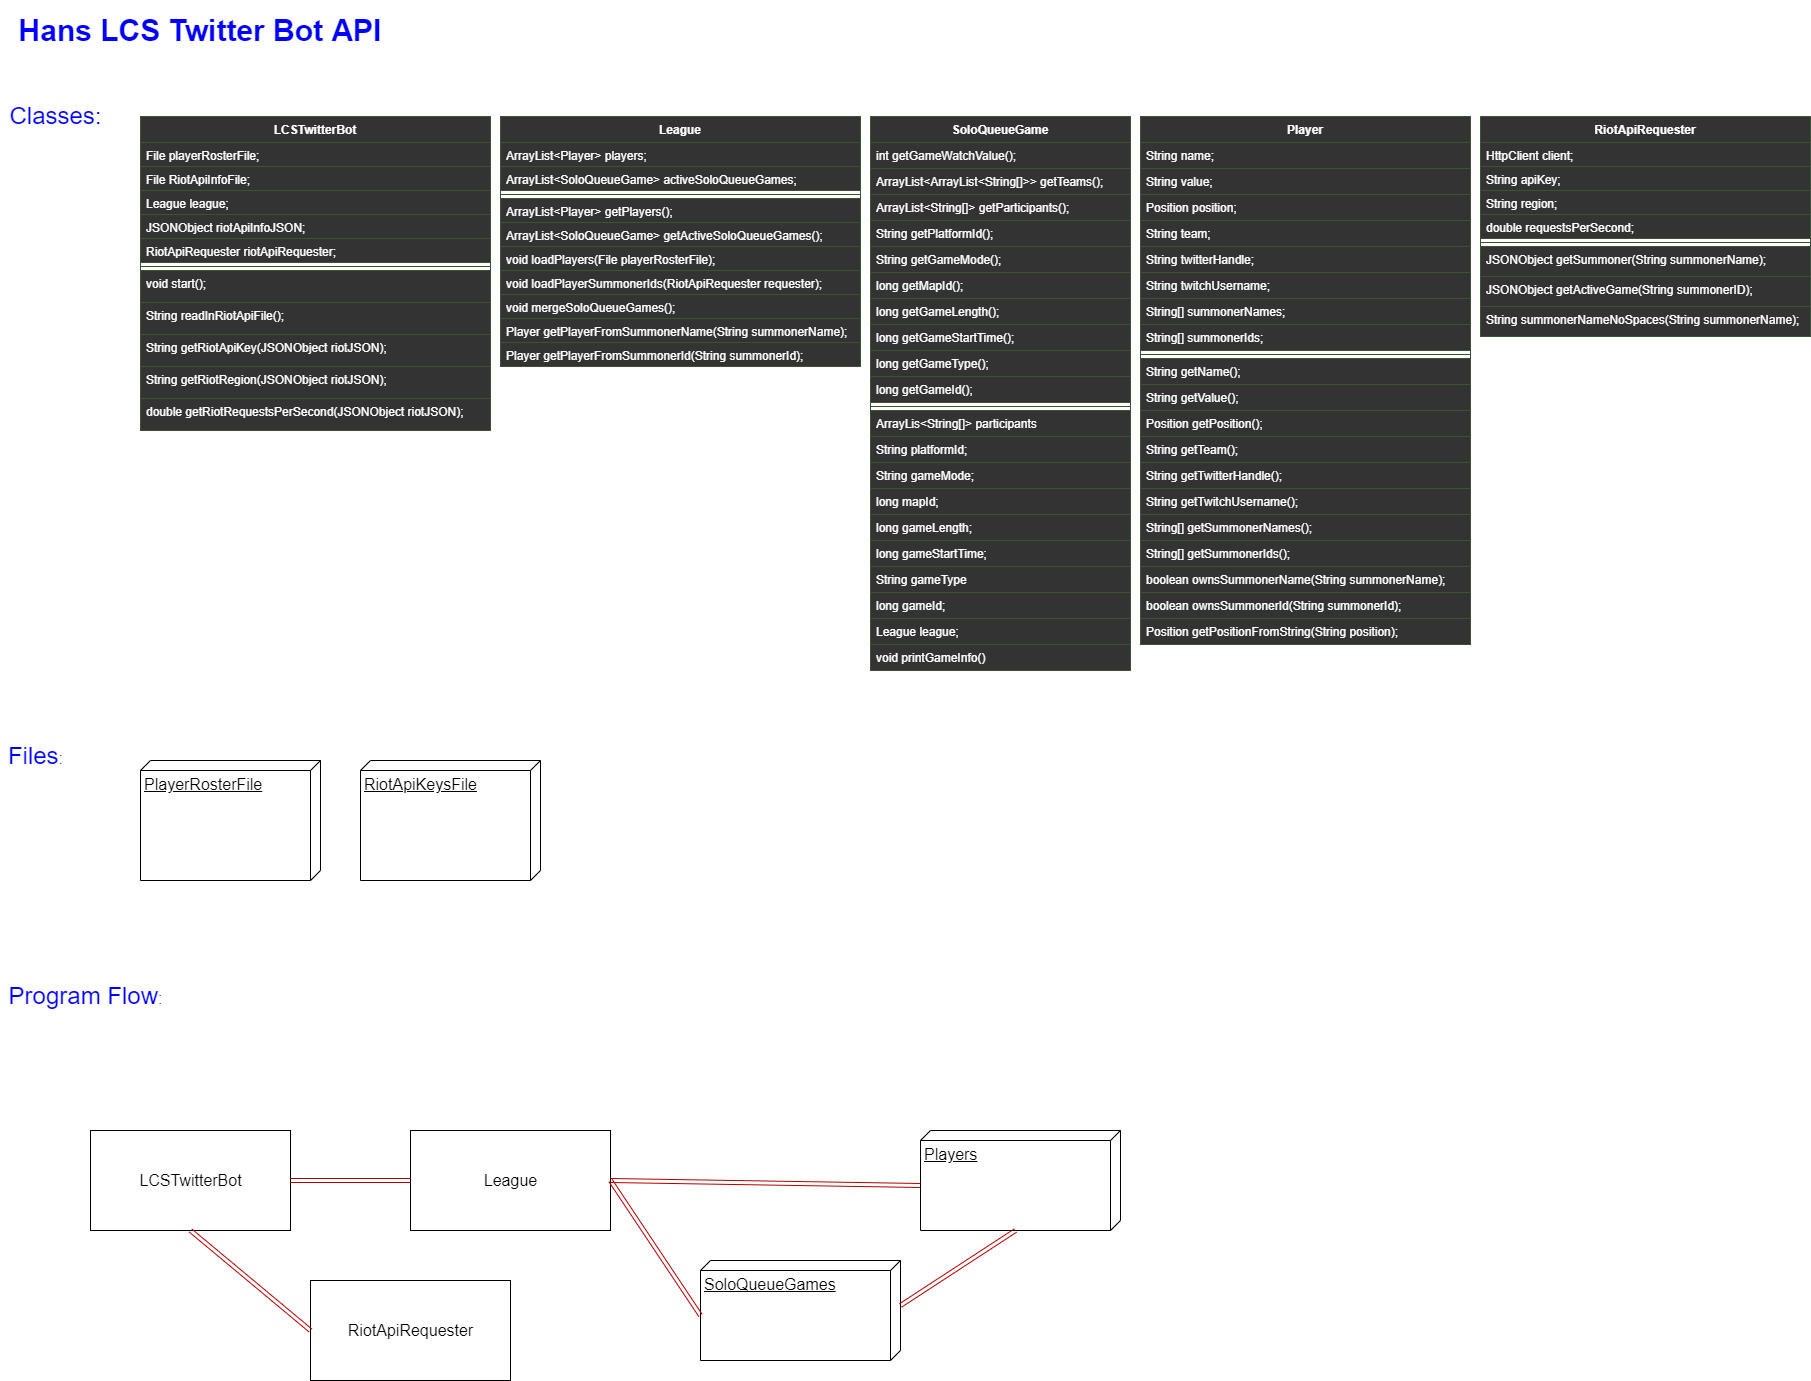
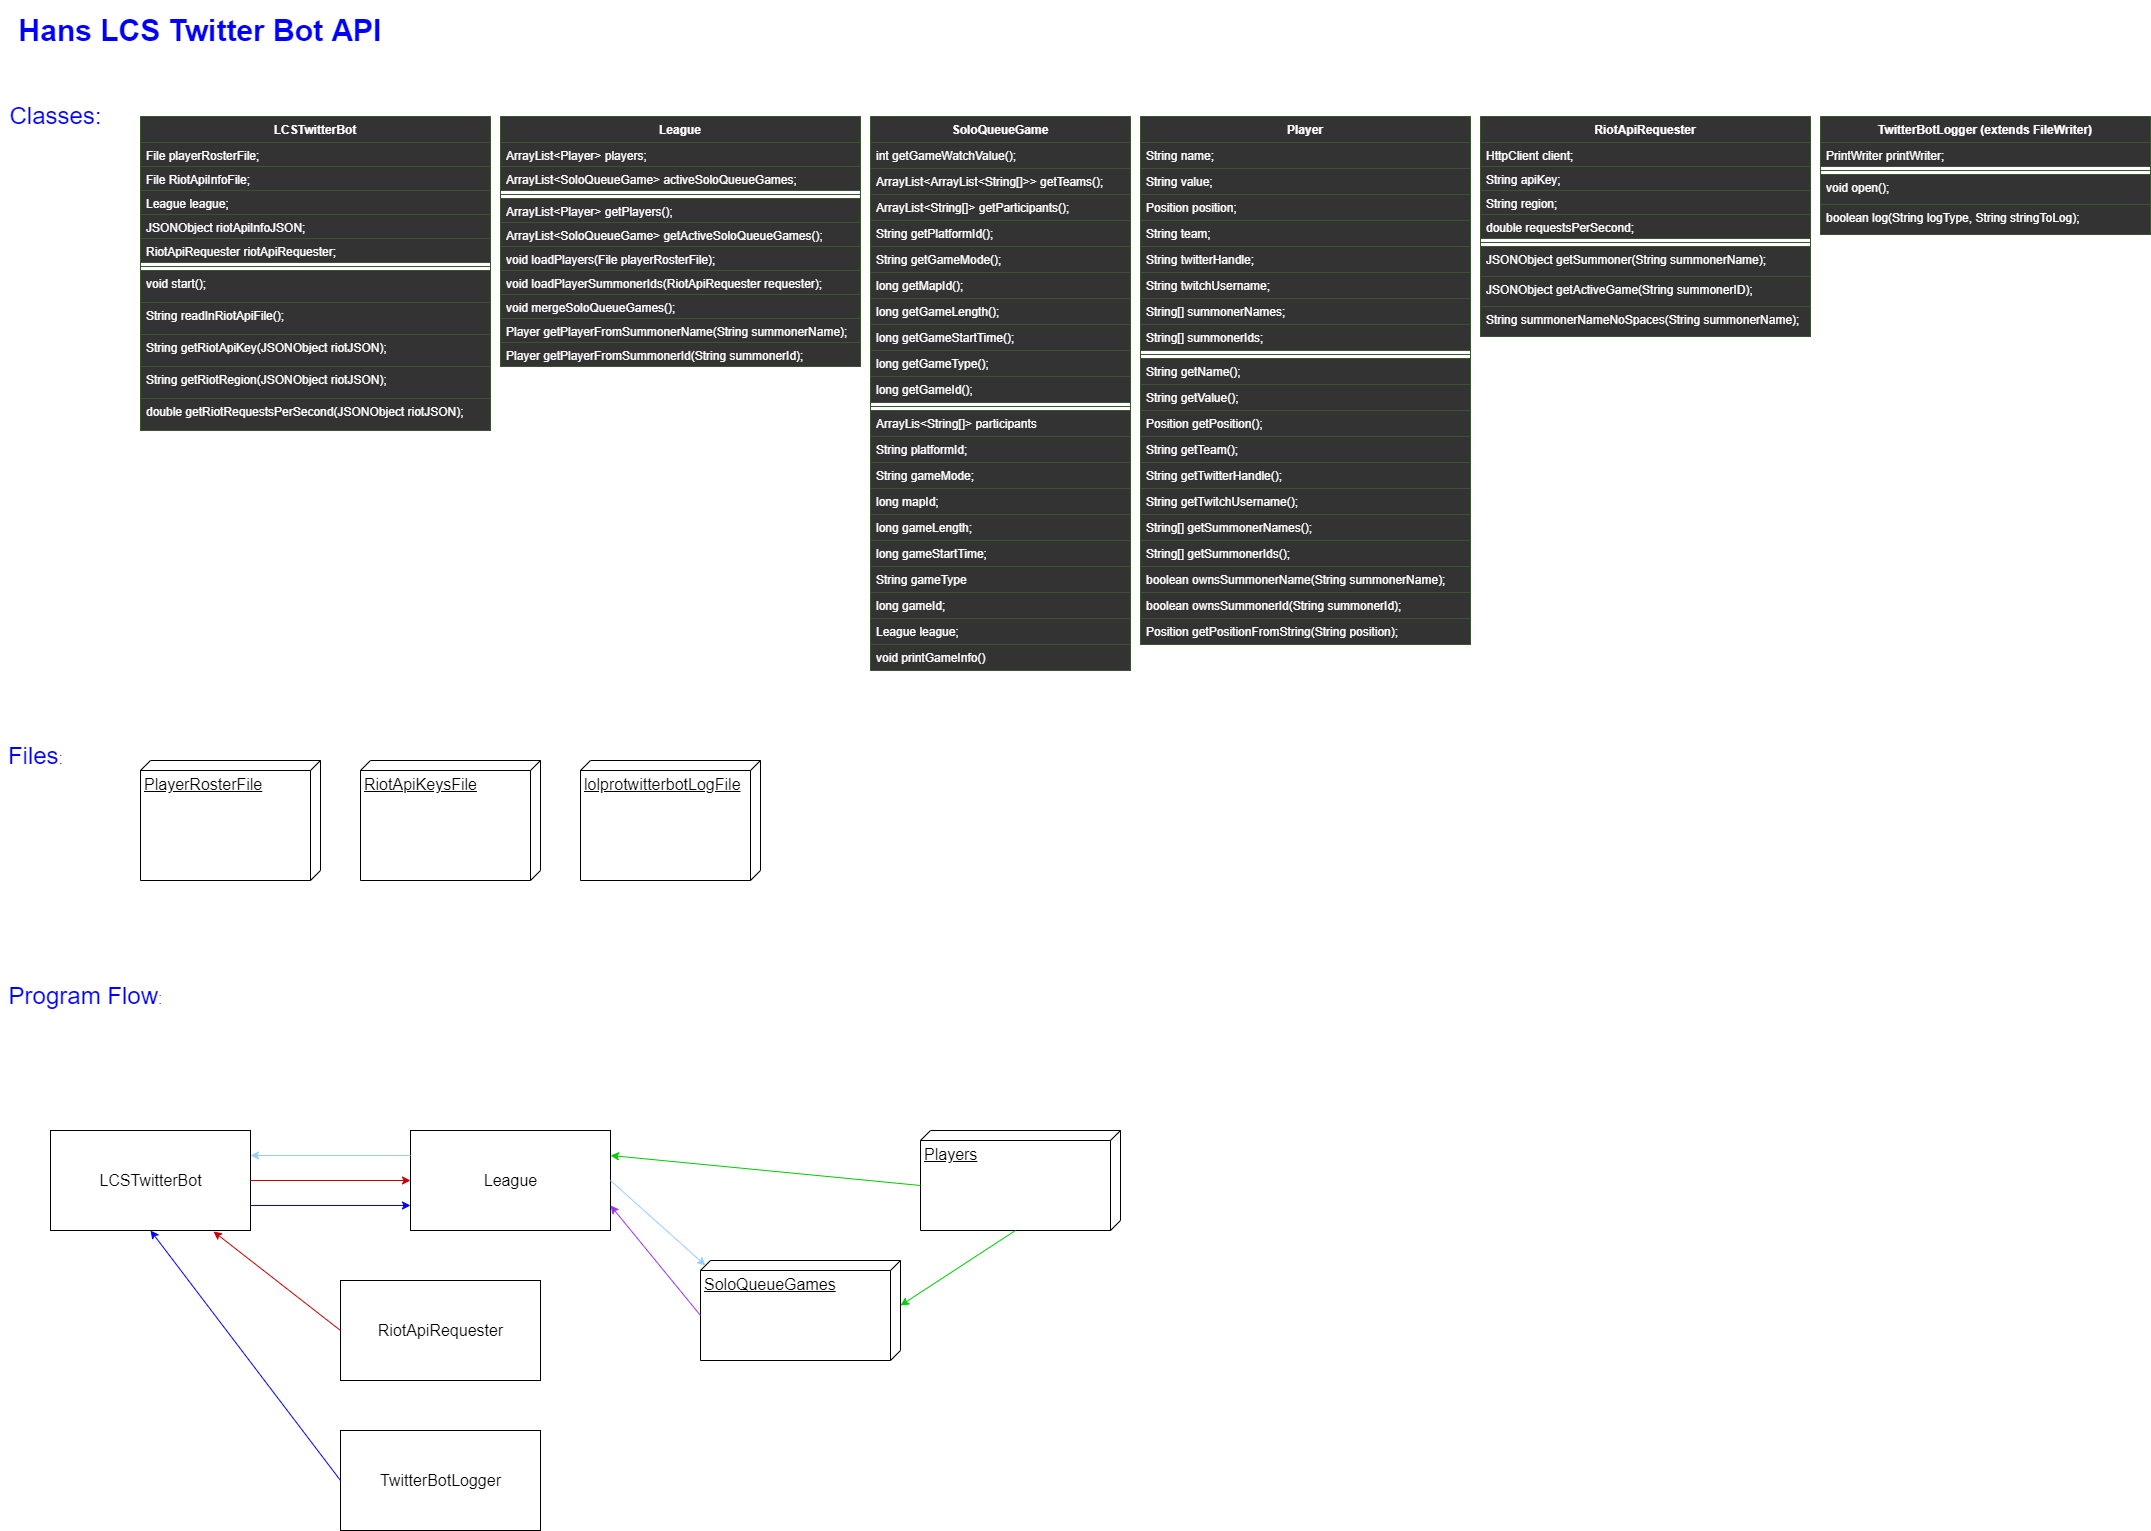
Added logging feature to keep track of what the bot is doing

diff --git a/src/com/hansvg/lcstwitterbot/RiotApiRequester.java b/src/com/hansvg/lcstwitterbot/RiotApiRequester.java
@@ -16,12 +16,15 @@ class RiotApiRequester {
     private String region;
     private double requestsASecond;
     private HttpClient httpClient;
+    private TwitterBotLogger twitterBotLogger;
 
-    protected RiotApiRequester(String ApiKey, String region, double requestsASecond) {
+    protected RiotApiRequester(String ApiKey, String region, double requestsASecond,
+            TwitterBotLogger twitterBotLogger) {
         this.ApiKey = ApiKey;
         this.region = region;
         this.requestsASecond = requestsASecond;
         httpClient = HttpClient.newHttpClient();
+        this.twitterBotLogger = twitterBotLogger;
     }
 
     protected JSONObject getSummoner(String summonerName) {
@@ -41,38 +44,49 @@ class RiotApiRequester {
                 return responseJSON;
             } else {
                 if (response.statusCode() == 400) {
-                    // System.out.println("400: Bad Request from: getSummonerID(" + summonerName +
-                    // ")");
+                    // LOG
+                    this.twitterBotLogger.log("400: BAD REQUEST",
+                            "From Riot Games API for requesting Summoner Name: " + summonerName);
                 } else if (response.statusCode() == 401) {
-                    // System.out.println("401: Unautherized from: getSummonerID(" + summonerName +
-                    // ")");
+                    // LOG
+                    this.twitterBotLogger.log("401: UNAUTHERIZED",
+                            "From Riot Games API for requesting Summoner Name: " + summonerName);
                 } else if (response.statusCode() == 403) {
-                    // System.out.println("403: Forbidden from: getSummonerID(" + summonerName +
-                    // ")");
+                    // LOG
+                    this.twitterBotLogger.log("403: FORBIDDEN",
+                            "From Riot Games API for requesting Summoner Name: " + summonerName);
                 } else if (response.statusCode() == 404) {
-                    // System.out.println("404: Data Not Found from: getSummonerID(" + summonerName
-                    // + ")");
+                    // LOG
+                    this.twitterBotLogger.log("404: DATA NOT FOUND",
+                            "From Riot Games API for requesting Summoner Name: " + summonerName);
                 } else if (response.statusCode() == 405) {
-                    // System.out.println("405: Method Not Allowed from: getSummonerID(" +
-                    // summonerName + ")");
+                    // LOG
+                    this.twitterBotLogger.log("405: METHOD NOT ALLOWED",
+                            "From Riot Games API for requesting Summoner Name: " + summonerName);
                 } else if (response.statusCode() == 415) {
-                    // System.out.println("415: Unsupported Media Type from: getSummonerID(" +
-                    // summonerName + ")");
+                    // LOG
+                    this.twitterBotLogger.log("415: UNSUPPORTED MEDIA TYPE",
+                            "From Riot Games API for requesting Summoner Name: " + summonerName);
                 } else if (response.statusCode() == 429) {
-                    // System.out.println("429: Rate Limit Exceeded from: getSummonerID(" +
-                    // summonerName + ")");
+                    // LOG
+                    this.twitterBotLogger.log("429: RATE LIMIT EXCEEDED",
+                            "From Riot Games API for requesting Summoner Name: " + summonerName);
                 } else if (response.statusCode() == 500) {
-                    // System.out.println("500: Internal Server Error from: getSummonerID(" +
-                    // summonerName + ")");
+                    // LOG
+                    this.twitterBotLogger.log("500: INTERNAL SERVER ERROR",
+                            "From Riot Games API for requesting Summoner Name: " + summonerName);
                 } else if (response.statusCode() == 502) {
-                    // System.out.println("502: Bad Gateway from: getSummonerID(" + summonerName +
-                    // ")");
+                    // LOG
+                    this.twitterBotLogger.log("502: BAD GATEWAY",
+                            "From Riot Games API for requesting Summoner Name: " + summonerName);
                 } else if (response.statusCode() == 503) {
-                    // System.out.println("503: Service Unavailable from: getSummonerID(" +
-                    // summonerName + ")");
+                    // LOG
+                    this.twitterBotLogger.log("503: SERVICE UNAVAILABLE",
+                            "From Riot Games API for requesting Summoner Name: " + summonerName);
                 } else if (response.statusCode() == 504) {
-                    // System.out.println("504: Gateway Timeout from: getSummonerID(" + summonerName
-                    // + ")");
+                    // LOG
+                    this.twitterBotLogger.log("504: GATEWAY TIMEOUT",
+                            "From Riot Games API for requesting Summoner Name: " + summonerName);
                 }
                 return null;
             }
@@ -106,38 +120,49 @@ class RiotApiRequester {
                     return responseJSON;
                 } else {
                     if (response.statusCode() == 400) {
-                        // System.out.println("400: Bad Request from: getLiveGameInfo(" + summonerID +
-                        // ")");
+                        // LOG
+                        this.twitterBotLogger.log("400: BAD REQUEST",
+                                "From Riot Games API for requesting live game for: " + summonerID);
                     } else if (response.statusCode() == 401) {
-                        // System.out.println("401: Unautherized from: getLiveGameInfo(" + summonerID +
-                        // ")");
+                        // LOG
+                        this.twitterBotLogger.log("401: UNAUTHERIZED",
+                                "From Riot Games API for requesting live game for: " + summonerID);
                     } else if (response.statusCode() == 403) {
-                        // System.out.println("403: Forbidden from: getLiveGameInfo(" + summonerID +
-                        // ")");
+                        // LOG
+                        this.twitterBotLogger.log("403: FORBIDDEN",
+                                "From Riot Games API for requesting live game for: " + summonerID);
                     } else if (response.statusCode() == 404) {
-                        // System.out.println("404: Data Not Found from: getLiveGameInfo(" + summonerID
-                        // + ")");
+                        // LOG
+                        // this.twitterBotLogger.log("404: DATA NOT FOUND", "From Riot Games API for
+                        // requesting live game for: " + summonerID);
                     } else if (response.statusCode() == 405) {
-                        // System.out.println("405: Method Not Allowed from: getLiveGameInfo(" +
-                        // summonerID + ")");
+                        // LOG
+                        this.twitterBotLogger.log("405: METHOD NOT ALLOWED",
+                                "From Riot Games API for requesting live game for: " + summonerID);
                     } else if (response.statusCode() == 415) {
-                        // System.out.println("415: Unsupported Media Type from: getLiveGameInfo(" +
-                        // summonerID + ")");
+                        // LOG
+                        this.twitterBotLogger.log("415: UNSUPPORTED MEDIA TYPE",
+                                "From Riot Games API for requesting live game for: " + summonerID);
                     } else if (response.statusCode() == 429) {
-                        // System.out.println("429: Rate Limit Exceeded from: getLiveGameInfo(" +
-                        // summonerID + ")");
+                        // LOG
+                        this.twitterBotLogger.log("429: RATE LIMIT EXCEEDED",
+                                "From Riot Games API for requesting live game for: " + summonerID);
                     } else if (response.statusCode() == 500) {
-                        // System.out.println("500: Internal Server Error from: getLiveGameInfo(" +
-                        // summonerID + ")");
+                        // LOG
+                        this.twitterBotLogger.log("500: INTERNAL SERVER ERROR",
+                                "From Riot Games API for requesting live game for: " + summonerID);
                     } else if (response.statusCode() == 502) {
-                        // System.out.println("502: Bad Gateway from: getLiveGameInfo(" + summonerID +
-                        // ")");
+                        // LOG
+                        this.twitterBotLogger.log("502: BAD GATEWAY",
+                                "From Riot Games API for requesting live game for: " + summonerID);
                     } else if (response.statusCode() == 503) {
-                        // System.out.println("503: Service Unavailable from: getLiveGameInfo(" +
-                        // summonerID + ")");
+                        // LOG
+                        this.twitterBotLogger.log("503: SERVICE UNAVAILABLE",
+                                "From Riot Games API for requesting live game for: " + summonerID);
                     } else if (response.statusCode() == 504) {
-                        // System.out.println("504: Gateway Timeout from: getLiveGameInfo(" + summonerID
-                        // + ")");
+                        // LOG
+                        this.twitterBotLogger.log("504: GATEWAY TIMEOUT",
+                                "From Riot Games API for requesting live game for: " + summonerID);
                     }
                     return null;
                 }

diff --git a/src/com/hansvg/lcstwitterbot/League.java b/src/com/hansvg/lcstwitterbot/League.java
@@ -12,10 +12,12 @@ class League {
 
     private ArrayList<Player> players;
     private ArrayList<SoloQueueGame> activeSoloQueueGames;
+    private TwitterBotLogger twitterBotLogger;
 
-    League() {
+    League(TwitterBotLogger twitterBotLogger) {
         this.players = new ArrayList<>();
         this.activeSoloQueueGames = new ArrayList<>();
+        this.twitterBotLogger = twitterBotLogger;
     }
 
     protected ArrayList<Player> getPlayers() {
@@ -43,6 +45,9 @@ class League {
             }
         }
         playerRosterScanner.close();
+        // LOG
+        this.twitterBotLogger.log("TASK",
+                (players.size() + " players loaded from \"" + playerRosterFile.toPath() + "\""));
     }
 
     protected void loadPlayerSummonerIds(RiotApiRequester riotApiRequester) {
@@ -59,7 +64,9 @@ class League {
                 if (summonerJSON != null) {
                     currentPlayer.getSummonerIds()[j] = summonerJSON.getString("id");
                 } else {
-                    // LOG SummonerName is invalid for currentPlayer.getSummonerNames()[j]
+                    // LOG
+                    this.twitterBotLogger.log("ERROR",
+                            "Summoner ID for " + summonerNames[j] + " could not be retrieved from Riot Games API");
                     currentPlayer.getSummonerIds()[j] = null;
                 }
             }
@@ -78,6 +85,8 @@ class League {
 
         }
         System.out.println("\n-------------Finished loading summoner IDs---------------\n");
+        // LOG
+        this.twitterBotLogger.log("TASK", "Summoner Ids Loaded");
     }
 
     protected void loadSoloQueueGames(RiotApiRequester riotApiRequester) {
@@ -93,7 +102,6 @@ class League {
             if (gameJSON != null) {
                 SoloQueueGame newSoloQueueGame = new SoloQueueGame(this, gameJSON);
                 this.activeSoloQueueGames.add(newSoloQueueGame);
-                // idsToScan.remove(0);
                 updateIDsToScan(idsToScan, newSoloQueueGame.getParticipants());
             } else {
                 // LOG GameJSON null for idsToScan.get(i)
@@ -117,6 +125,8 @@ class League {
 
         System.out.println("\n------------Finished loading Solo Queue Games------------\n");
         this.mergeSoloQueueGames();
+        // LOG
+        this.twitterBotLogger.log("TASK", "Active Solo Queue Games Loaded");
     }
 
     private void mergeSoloQueueGames() {

diff --git a/src/com/hansvg/lcstwitterbot/LCSTwitterBot.java b/src/com/hansvg/lcstwitterbot/LCSTwitterBot.java
@@ -2,6 +2,7 @@ package com.hansvg.lcstwitterbot;
 
 import java.io.File;
 import java.io.FileNotFoundException;
+import java.io.IOException;
 import java.util.Scanner;
 
 import org.json.JSONException;
@@ -10,23 +11,28 @@ import org.json.JSONObject;
 public class LCSTwitterBot {
 
     private File playerRosterFile;
-    private File riotApiInfoFile;
-
     private League league;
 
+    private File riotApiInfoFile;
     private JSONObject riotApiInfoJSON;
     private RiotApiRequester riotApiRequester;
 
-    public LCSTwitterBot(File playerRosterFile, File riotApiInfoFile) throws JSONException, FileNotFoundException {
+    private TwitterBotLogger twitterBotLogger;
+
+    public LCSTwitterBot(File playerRosterFile, File riotApiInfoFile, File twitterbotLogFile)
+            throws JSONException, IOException {
         this.playerRosterFile = playerRosterFile;
         this.riotApiInfoFile = riotApiInfoFile;
-        this.league = new League();
+        this.twitterBotLogger = new TwitterBotLogger(twitterbotLogFile);
+        this.league = new League(twitterBotLogger);
         this.riotApiInfoJSON = new JSONObject(readInRiotApiFile());
         this.riotApiRequester = new RiotApiRequester(getRiotApiKey(riotApiInfoJSON), getRiotRegion(riotApiInfoJSON),
-                getRiotRequestsPerSecond(riotApiInfoJSON));
+                getRiotRequestsPerSecond(riotApiInfoJSON), twitterBotLogger);
     }
 
-    public void start() throws FileNotFoundException {
+    public void start() throws IOException {
+        this.twitterBotLogger.open();
+        this.twitterBotLogger.log("START", "LOL PRO TWITTER BOT START");
 
         league.loadPlayers(this.playerRosterFile);
         league.loadPlayerSummonerIds(riotApiRequester);
@@ -37,6 +43,9 @@ public class LCSTwitterBot {
         for (SoloQueueGame g : league.getActiveSoloQueueGames()) {
             g.printGameInfo();
         }
+
+        this.twitterBotLogger.log("END", "LOL PRO TWITTER BOT END");
+        this.twitterBotLogger.close();
     }
 
     private String readInRiotApiFile() throws FileNotFoundException {

diff --git a/src/Main.java b/src/Main.java
@@ -6,11 +6,13 @@ public class Main {
 
     private static final String playerRosterFilePath = "data\\LoL_Roster_Summer_2020 - NA.csv";
     private static final String riotInfoFilePath = "data\\RiotApiInfo.json";
+    private static final String twitterbotLogFilePath = "data\\LolProTwitterBot.log";
 
     public static void main(String[] args) {
 
         try {
-            LCSTwitterBot lcsTwitterBot = new LCSTwitterBot(new File(playerRosterFilePath), new File(riotInfoFilePath));
+            LCSTwitterBot lcsTwitterBot = new LCSTwitterBot(new File(playerRosterFilePath), new File(riotInfoFilePath),
+                    new File(twitterbotLogFilePath));
             lcsTwitterBot.start();
         } catch (Exception e) {
             System.out.println(e);

diff --git a/src/com/hansvg/lcstwitterbot/TwitterBotLogger.java b/src/com/hansvg/lcstwitterbot/TwitterBotLogger.java
@@ -1,0 +1,25 @@
+package com.hansvg.lcstwitterbot;
+
+import java.io.File;
+import java.io.FileWriter;
+import java.io.IOException;
+import java.io.PrintWriter;
+import java.time.OffsetDateTime;
+
+class TwitterBotLogger extends FileWriter {
+
+    PrintWriter printWriter;
+
+    protected TwitterBotLogger(File logFile) throws IOException {
+        super(logFile, true);
+    }
+
+    protected void open() {
+        this.printWriter = new PrintWriter(this);
+    }
+
+    protected void log(String logType, String stringToLog) {
+        this.printWriter.printf("%s | %s | %s\n", OffsetDateTime.now().toString(), logType, stringToLog);
+    }
+
+}
